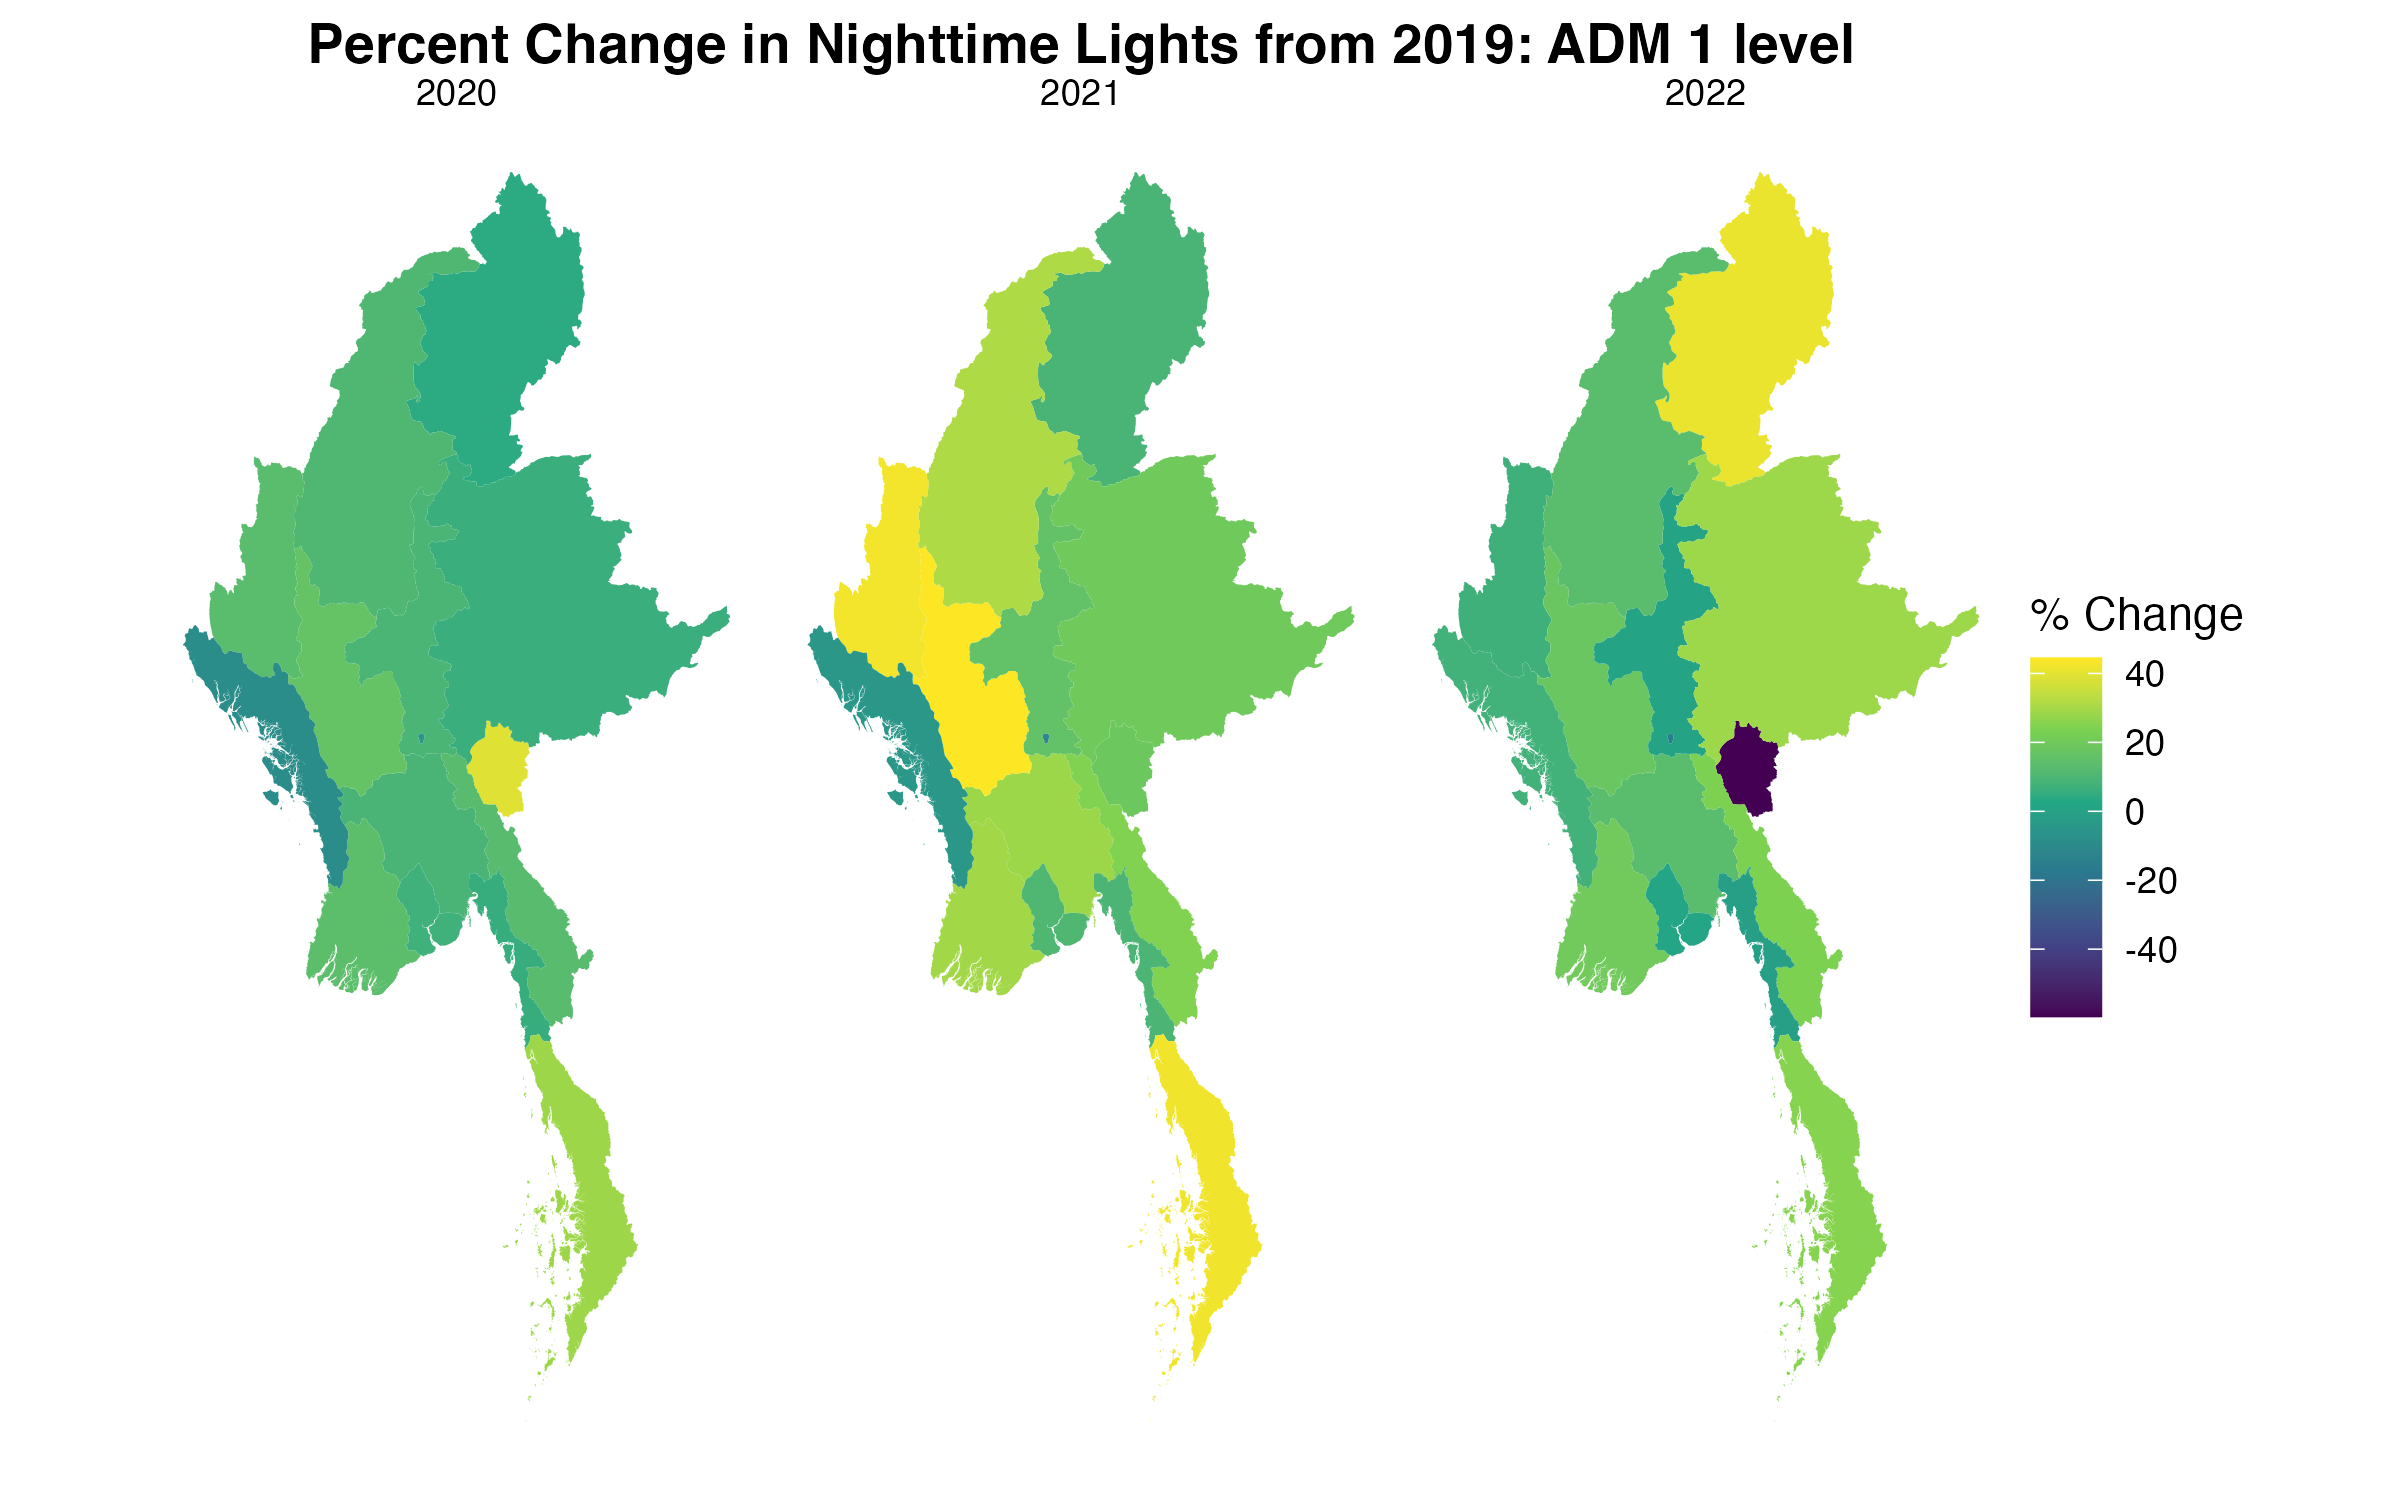
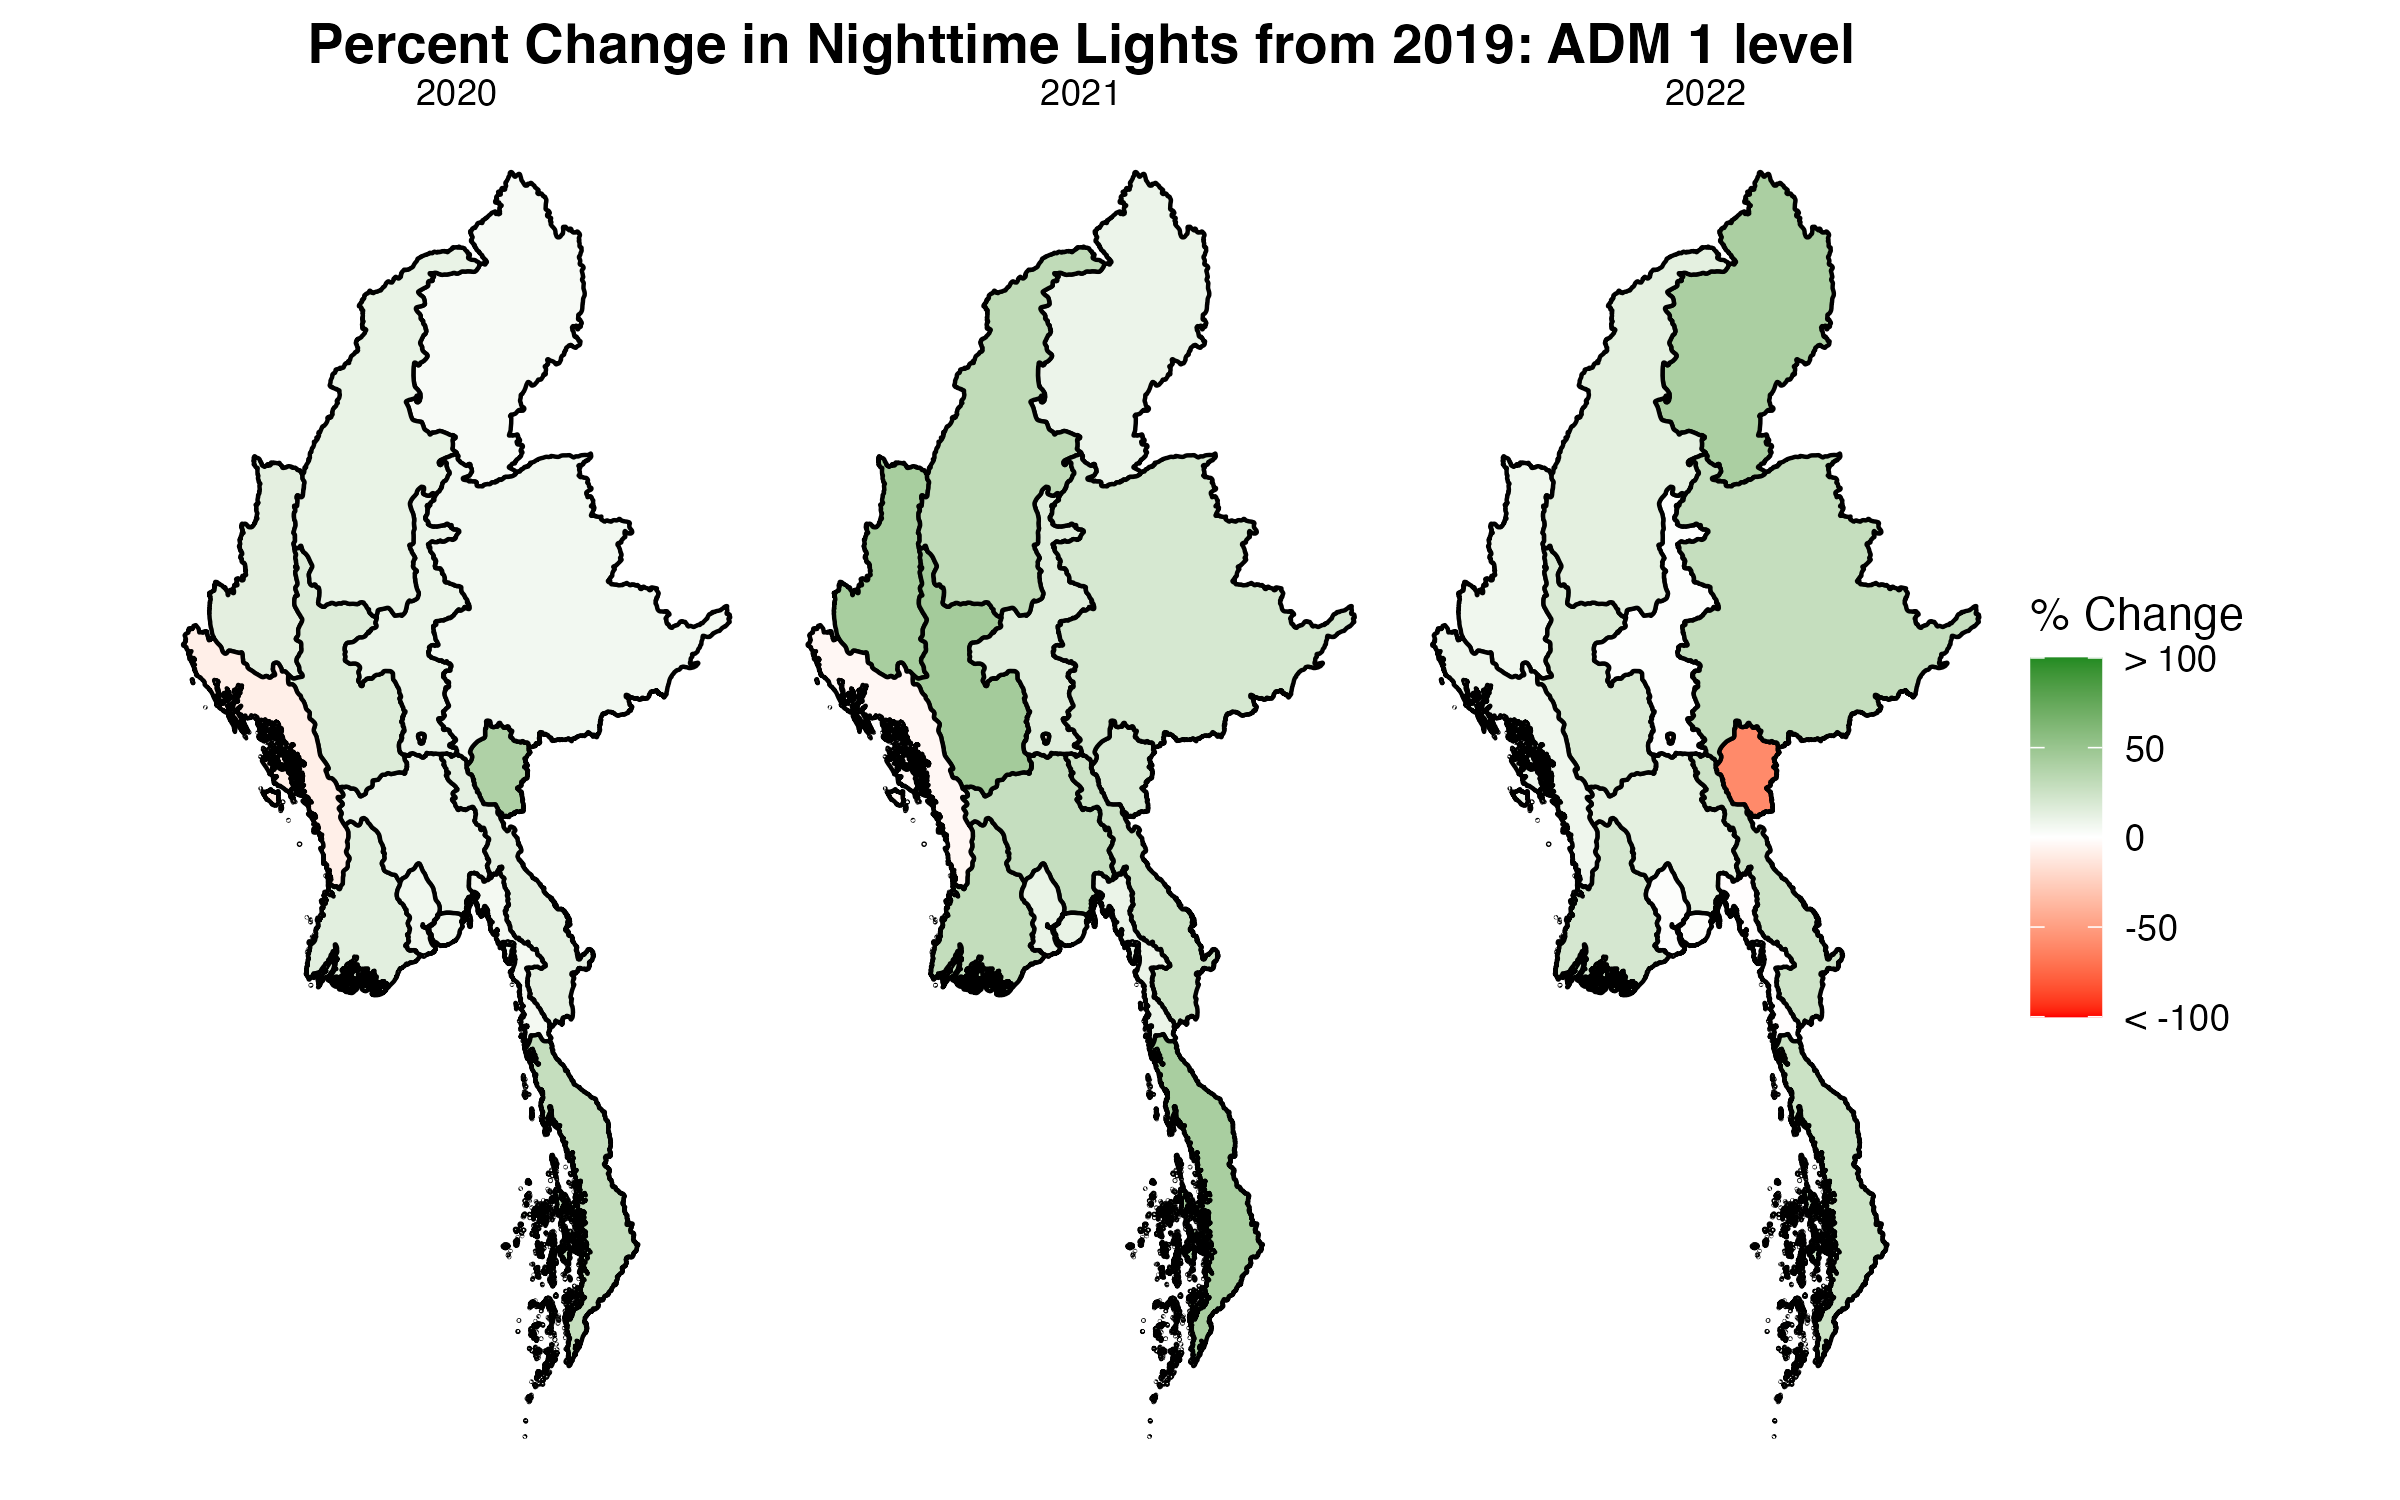
ntl

diff --git a/notebooks/nighttime-lights/README.md b/notebooks/nighttime-lights/README.md
@@ -88,20 +88,14 @@ align: center
 Trends in Nighttime Lights at ADM 1
 ```
 
-```{figure} ../../reports/figures/ntl_trends_adm2.png
----
-scale: 50%
-align: center
----
-Trends in Nighttime Lights at ADM 2
-```
+The below figure shows trends in nighttime lights, showing trends in the z-score. The z-score is computed within each admin 1 unit.
 
-```{figure} ../../reports/figures/ntl_trends_adm3.png
+```{figure} ../../reports/figures/ntl_trends_adm1_zscore.png
 ---
 scale: 50%
 align: center
 ---
-Trends in Nighttime Lights at ADM 3
+Trends in Nighttime Lights at ADM 1 using Z-Score
 ```
 
 ### Maps of Changes in Nighttime Lights
@@ -135,6 +129,6 @@ Percent Change in Nighttime Lights: AMD 3 Level
 
 ## Limitations
 
-Nighttime lights are a common data source for measuring local economic activity. However, it is a proxy that is strongly--??although imperfectly--??correlated with measures of interest, such as population, local GDP, and wealth. Consequently, care must be taken in interpreting reasons for changes in lights.
+Nighttime lights are a common data source for measuring local economic activity. However, it is a proxy that is strongly---although imperfectly---correlated with measures of interest, such as population, local GDP, and wealth. Consequently, care must be taken in interpreting reasons for changes in lights.
 
 
